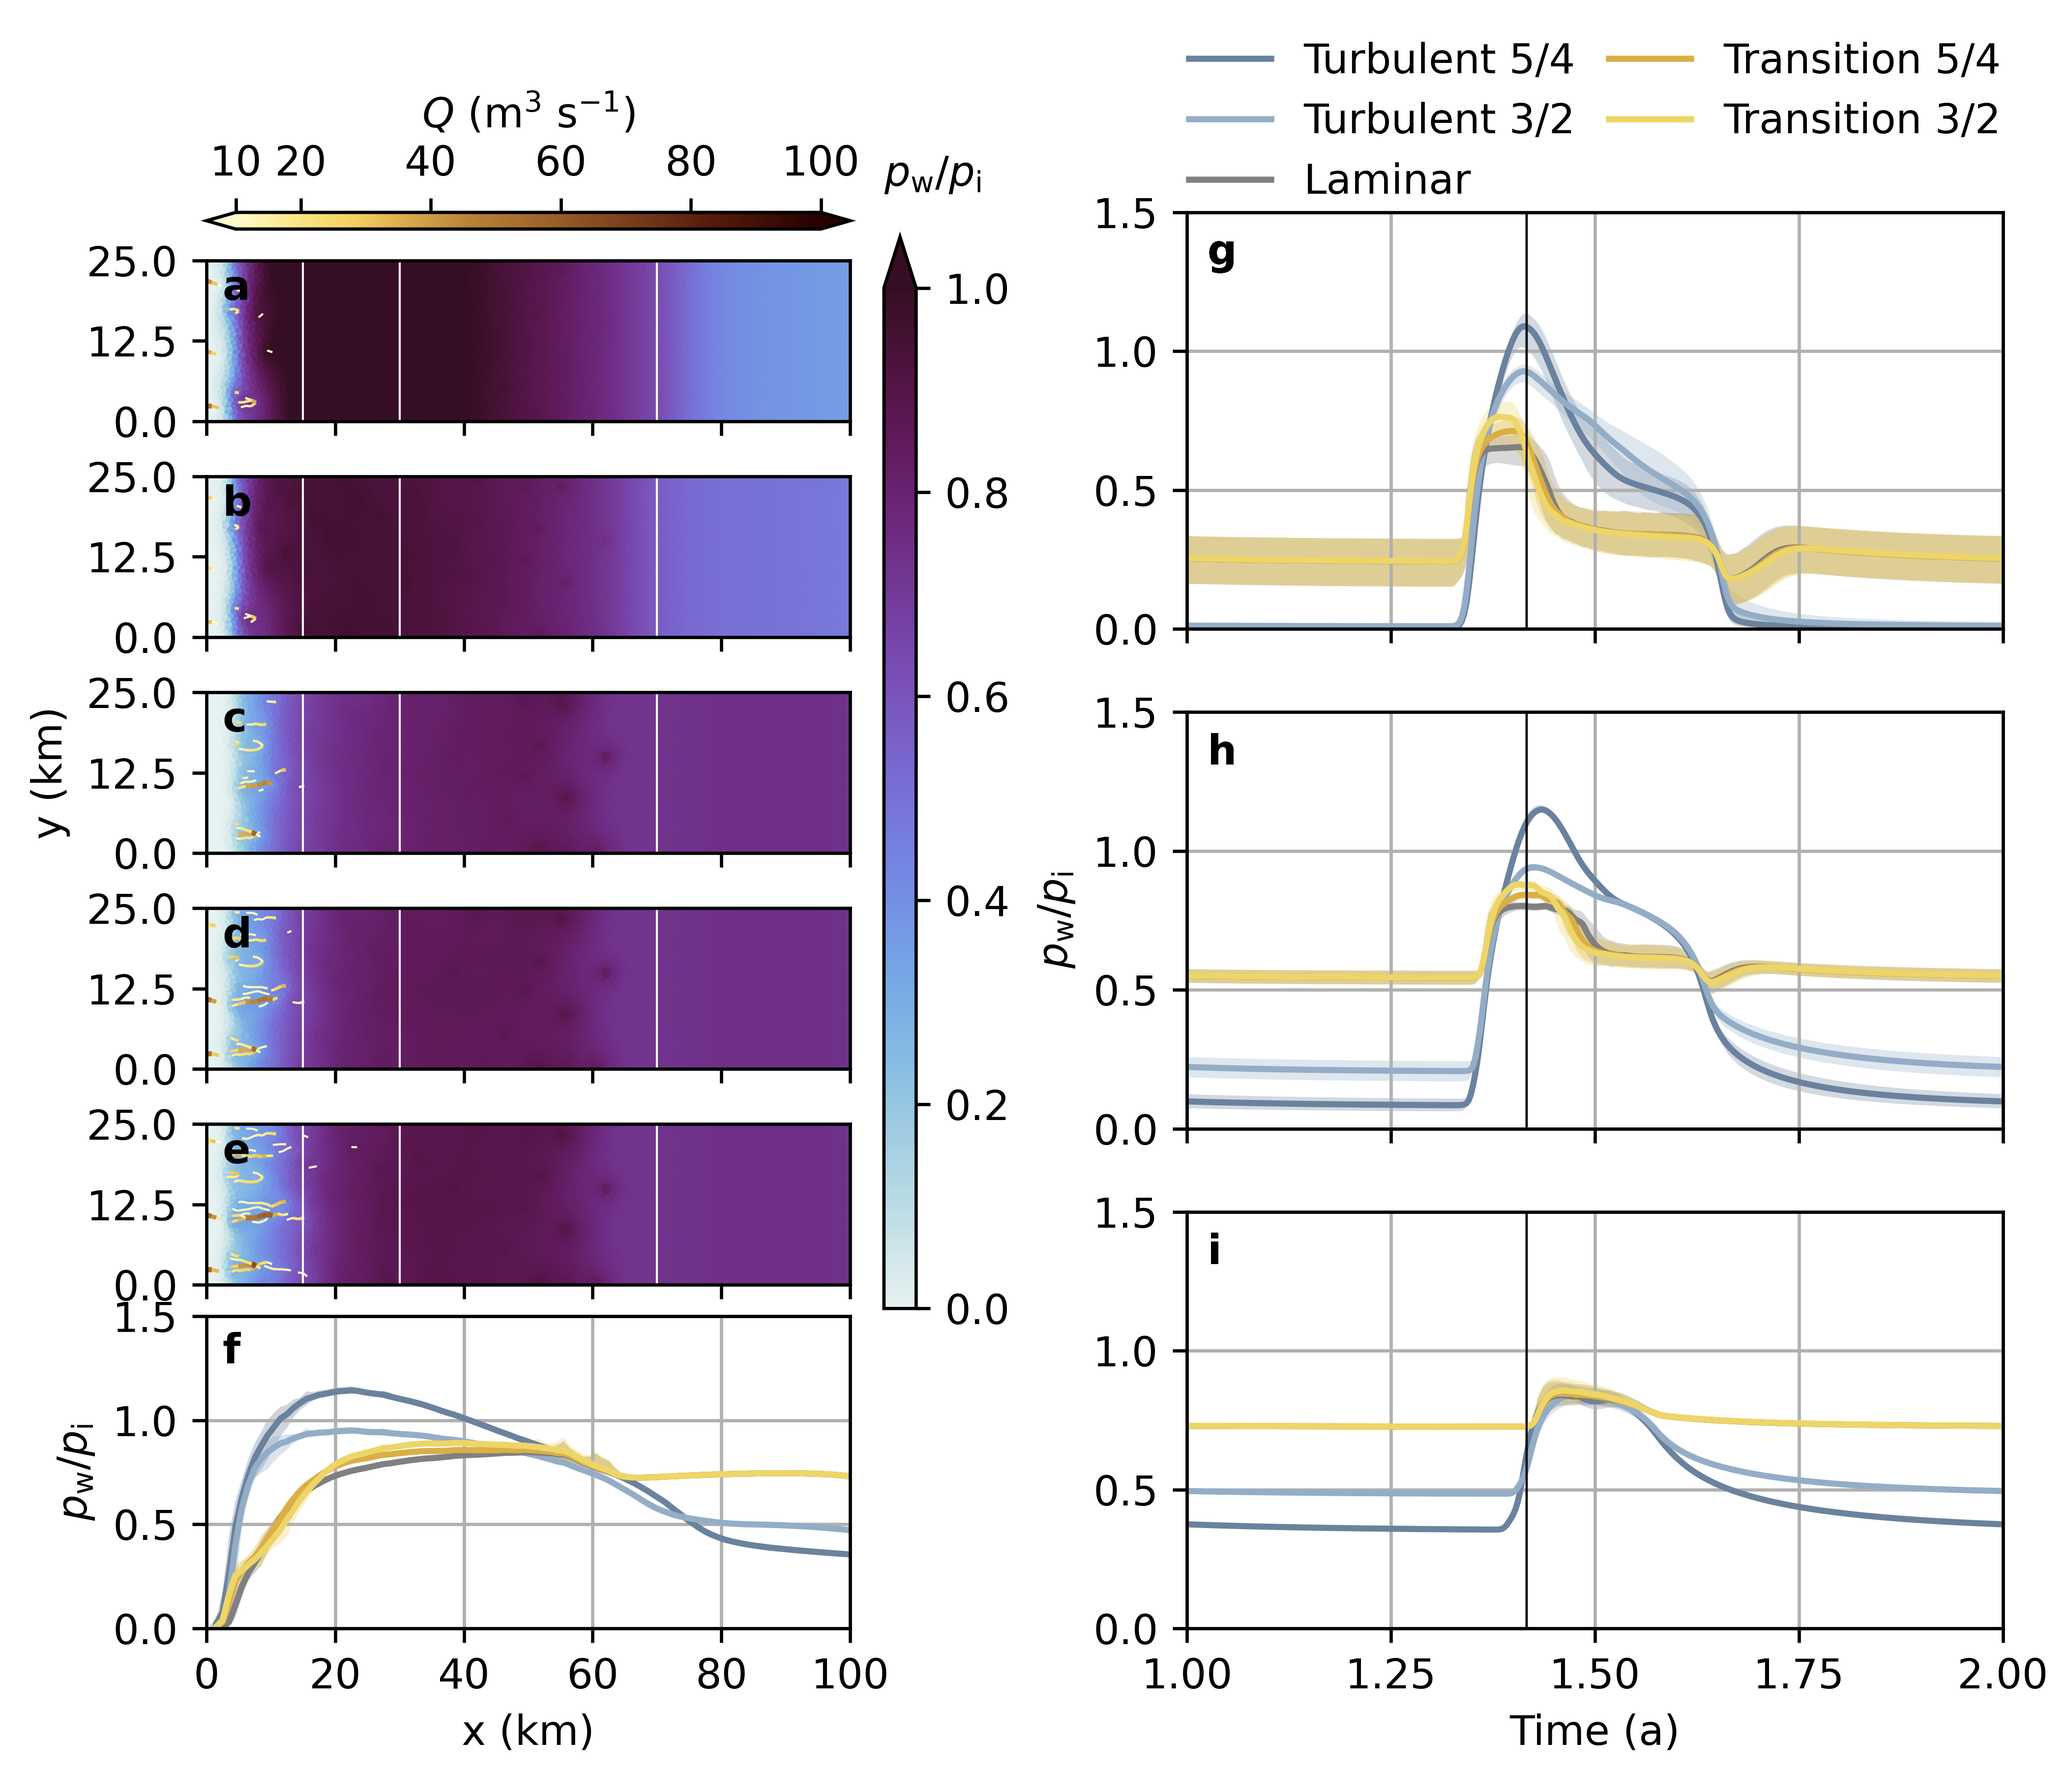
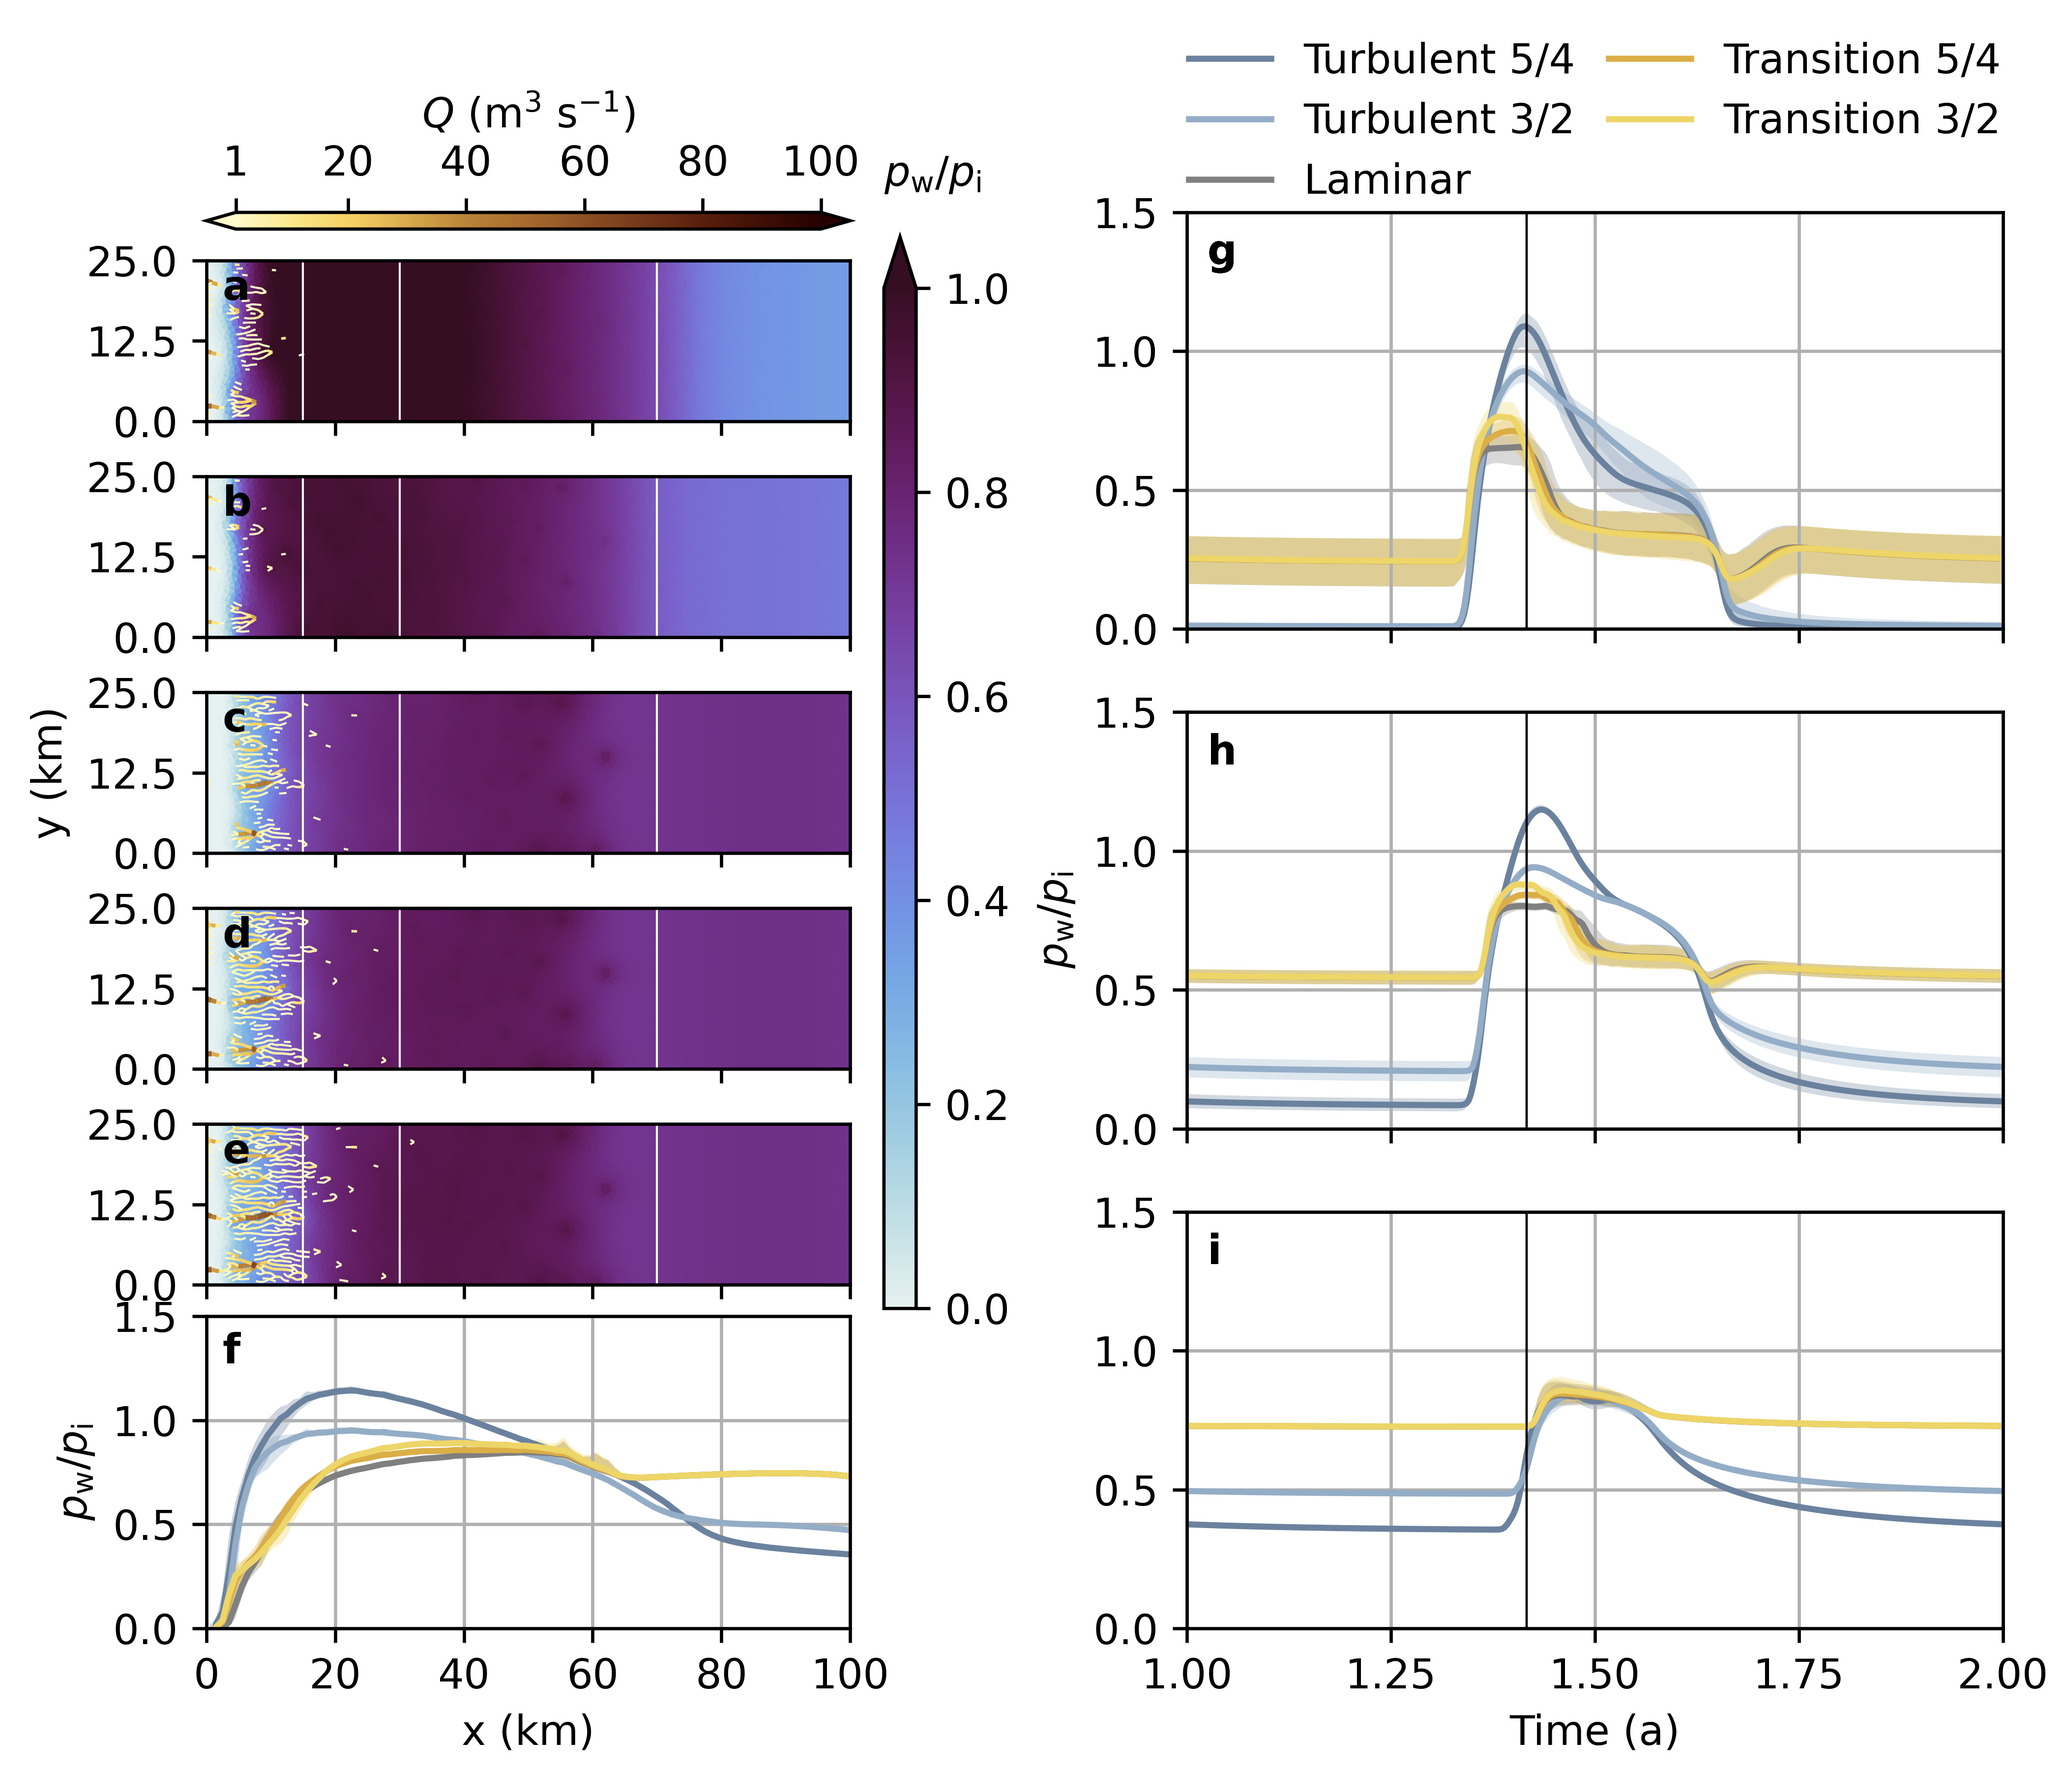
Q limits

diff --git a/analysis/make_pressure_figs.py b/analysis/make_pressure_figs.py
@@ -12,7 +12,7 @@ from plot_pressure_maps_timeseries import plot_pressure_maps_timeseries
 cases = [1, 2, 3, 4, 5]
 fnames = ['../glads/_00_shmip_forcing_shmip_topo/RUN/output_%03d_seasonal.nc'%caseid for caseid in cases]
 figname = '00_pressure_seasonal.png'
-fig_00 = plot_pressure_maps_timeseries(fnames, figname)
+fig_00 = plot_pressure_maps_timeseries(fnames, figname, Qmin=1)
 
 ## Case 01: Flat topo, KAN_L forcing
 KAN_tslice = 569

diff --git a/analysis/plot_pressure_maps_timeseries.py b/analysis/plot_pressure_maps_timeseries.py
@@ -217,7 +217,7 @@ def plot_pressure_maps_timeseries(fnames, figname, tslice=defaults.tslice,
     cax1.xaxis.tick_top()
     cax1.xaxis.set_label_position('top')
 
-    cax2.set_xticks([10, 20, 40, 60, 80, 100])
+    cax2.set_xticks([Qmin, 20, 40, 60, 80, 100])
 
     cax2.xaxis.tick_top()
     cax2.xaxis.set_label_position('top')
